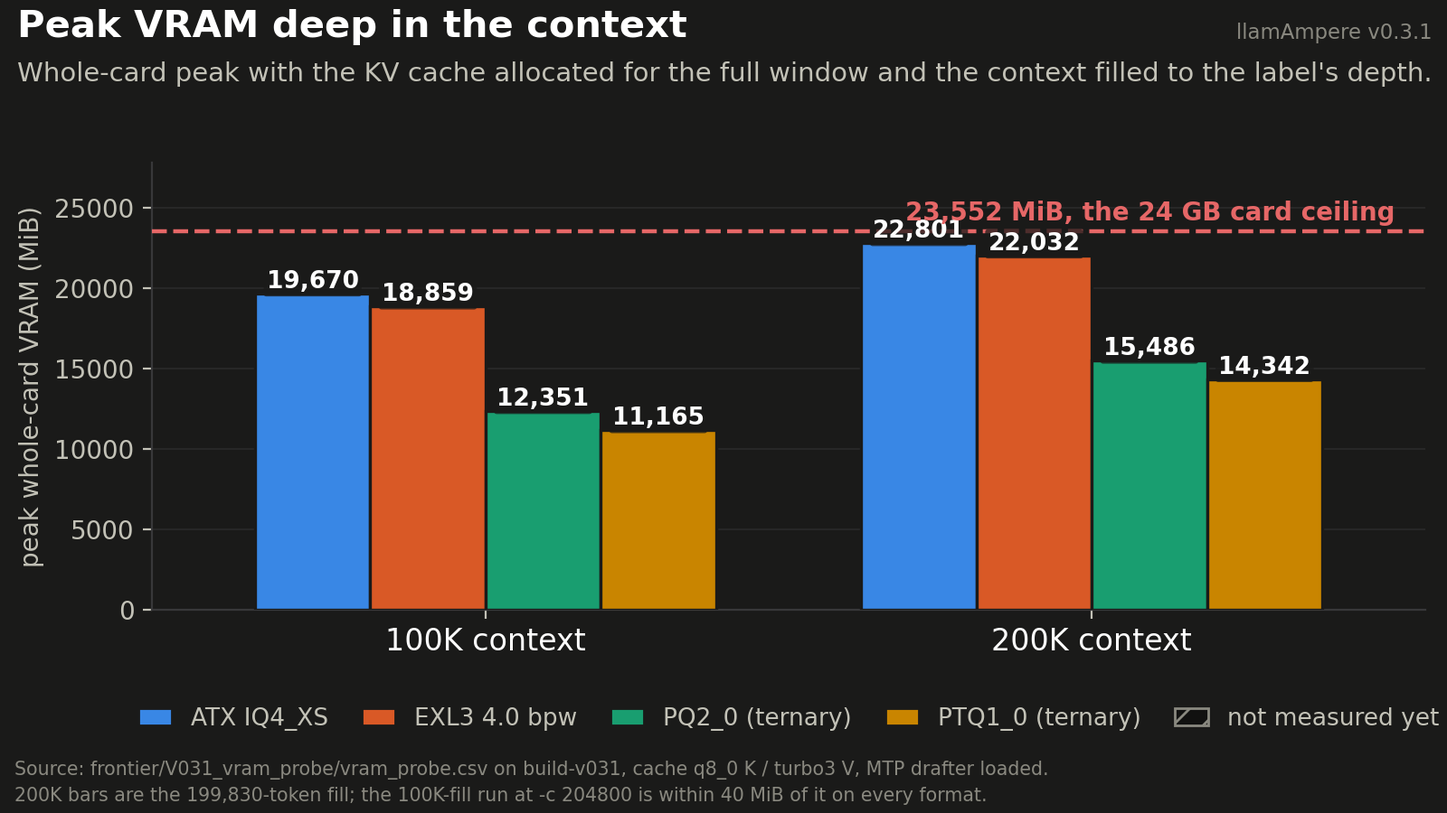
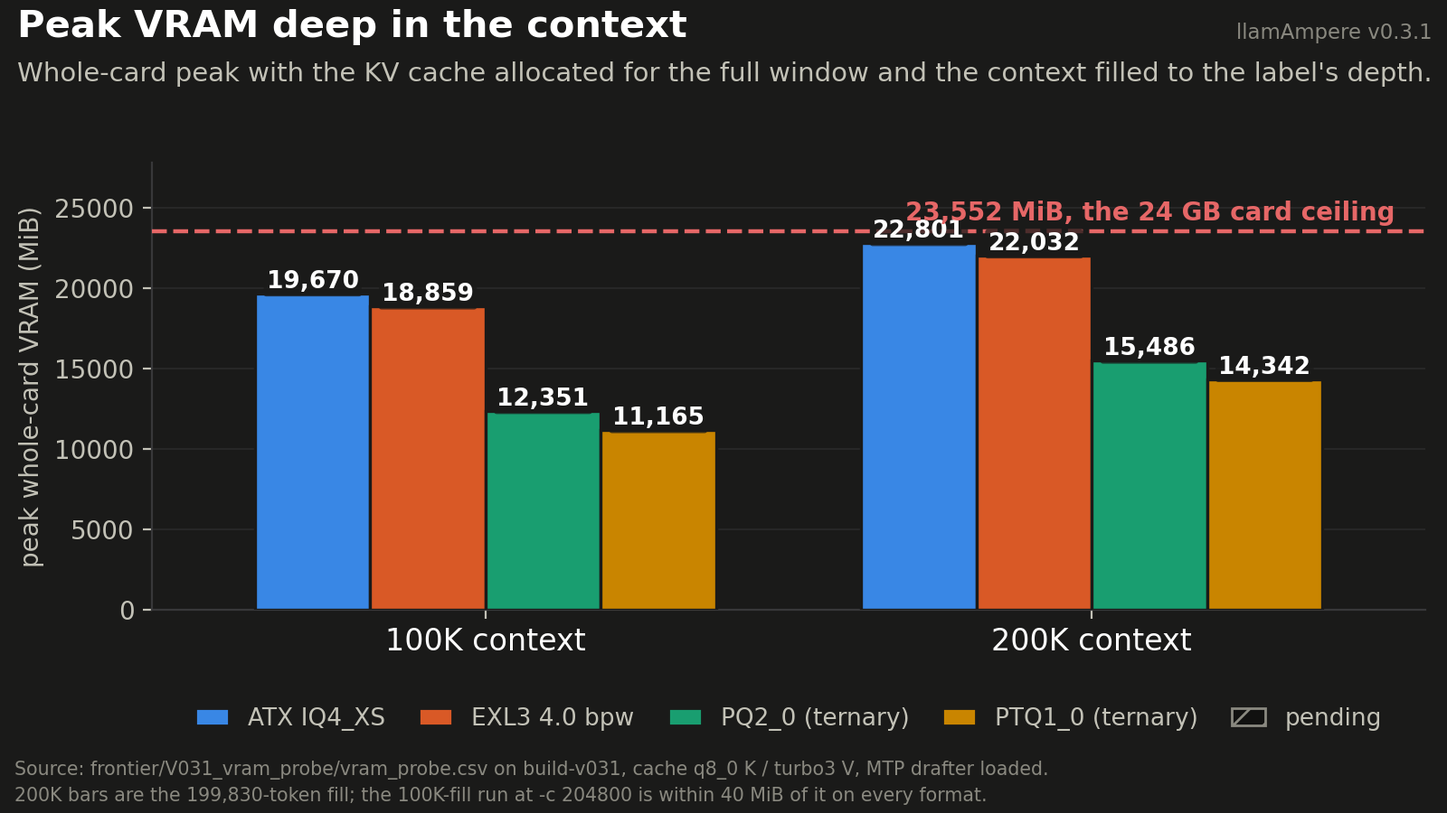
docs: EXL3 3.0 and 3.5 bpw decode cells on the release build, and the PTQ1_0 drafted cells pending a kernel re-measurement
Three EXL3 widths are now measured end to end on build-v031 against the same
20,469-token fixture, three seeds per cell, temperature 1.0 with a 20,480-token
cap and a 5,000-generated-token floor: 3.0 bpw at 38.8 tok/s single-token and
80.7 with MTP depth 4, 3.5 bpw at 39.9 and 81.8, 4.0 bpw at 40.6 and 81.9, with
peak whole-card VRAM of 13,160/14,403, 14,634/15,756 and 16,030/17,154 MiB. The
narrower widths hold the drafted speed within the seed spread out of files 1.42
and 2.83 GiB smaller. 3.0 bpw is also measured at 64K (36.1 and 74.9 tok/s, two
seeds). The release notes, HIGHLIGHTS, docs/exl3.md, the README line and
highlights_data.json carry the new cells with their per-seed sources, and the
file-size/bits-per-weight TBD is resolved with a six-row table.

The PTQ1_0 cells that were measured with the MTP drafter are withheld: the
verify-width kernel behind them was rewritten and is in final gating, so those
cells are drawn pending in fig01 and fig06 and will be filled from a run on the
shipping kernel, together with a base-runtime comparison at 64K. The PTQ1_0
single-token numbers and VRAM figures are unchanged.

Changed region(s): [[0.0938, 0.8711, 1.0, 0.9022]]

diff --git a/docs/llamampere-v0.3.1/make_figures.py b/docs/llamampere-v0.3.1/make_figures.py
@@ -154,7 +154,7 @@ def legend_formats(ax, keys, ncols=None, y=-0.16, pending=True):
     handles = [Patch(facecolor=colour(k), edgecolor=SURFACE, label=FORMATS[k]["label"])
                for k in keys]
     if pending:
-        handles.append(Patch(facecolor=PANEL, edgecolor=INK3, hatch="//", label="not measured yet"))
+        handles.append(Patch(facecolor=PANEL, edgecolor=INK3, hatch="//", label="pending"))
     ax.legend(handles=handles, ncols=ncols or len(handles), loc="upper center",
               bbox_to_anchor=(0.5, y), frameon=False, labelcolor=INK2, handlelength=1.4,
               columnspacing=1.4)

diff --git a/docs/llamampere-v0.3.1/RELEASE_NOTES.md b/docs/llamampere-v0.3.1/RELEASE_NOTES.md
@@ -33,6 +33,26 @@ development build. Peak whole-card VRAM 17,154 MiB at 20K with the drafter and 1
 divergence to the reference implementation on the same weights is 0.000221 ± 0.000057 with the same top
 token on 99.6 % of positions, and the converter reconstructs its checked tensors with `max|Δ| = 0`.
 
+Three bit widths are now measured end to end on the release build (`build-v031`), on the same
+20,469-token fixture, seeds 7300/7301/7302, temperature 1.0, `n_predict` 20,480, EOS honoured, every run
+past the 5,000-generated-token floor:
+
+| EXL3 width | file | T=1, 20K prompt | MTP-4, 20K prompt | peak VRAM, 20K (T=1 / MTP-4) |
+|---|---:|---:|---:|---:|
+| 3.0 bpw | 10.91 GiB (11,714,920,352 B) | 38.8 tok/s (3 seeds, sd 0.39) | 80.7 tok/s (3 seeds, sd 2.17) | 13,160 / 14,403 MiB |
+| 3.5 bpw | 12.32 GiB (13,233,389,472 B) | 39.9 tok/s (3 seeds, sd 0.19) | 81.8 tok/s (3 seeds, sd 1.11) | 14,634 / 15,756 MiB |
+| 4.0 bpw | 13.74 GiB (14,755,790,624 B) | 40.6 tok/s (3 seeds, sd 0.15) | 81.9 tok/s (3 seeds, sd 0.82) | 16,030 / 17,154 MiB |
+
+The narrower widths decode at the same drafted speed as 4.0 bpw within the seed spread, from a file 1.42
+and 2.83 GiB smaller and with 1,398 and 2,751 MiB less peak VRAM at that depth. Draft acceptance is the
+same across the three widths (0.612 to 0.634 over the nine drafted runs). Four of the six 3.0 bpw runs
+at 20K ran to the 20,480-token cap instead of stopping on EOS; every other run in the table stopped on
+EOS. Deeper in the
+context, 3.0 bpw holds 36.1 tok/s single-token (2 seeds, sd 0.07) and 74.9 tok/s with MTP depth 4
+(2 seeds, sd 1.30) on a 65,531-token prompt, peak 14,454 and 15,688 MiB. Per-seed files:
+`EX5_depth_bench/results_v031_exl3_3.0/` and `results_v031_exl3_3.5/` (`A1.*` single-token, `A.*`
+MTP-4), alongside `results_v031/` for 4.0 bpw.
+
 Full documentation, including conversion, verification and the known limits: [docs/exl3.md](../exl3.md).
 
 ### Ternary Bonsai 2: PTQ1_0 and PQ2_0 SM86 decode kernels
@@ -40,10 +60,11 @@ Full documentation, including conversion, verification and the known limits: [do
 CPU and CUDA inference for Prism ML's Ternary Bonsai 2 27B, plus decode kernels for both containers.
 `PQ2_0` (2-bit codes) and `PTQ1_0` (5 trits per byte) hold bit-identical ternary values and scales; they
 differ only in packing. At 16K context on a 3090 Ti, `PQ2_0` decodes at 69.7 tok/s single-token and 104.8
-tok/s with the MTP drafter, `PTQ1_0` at 62.8 and 59.1 tok/s, for about 1.1 GB less peak VRAM (release
-build, one 16K rag prompt, two seeds, full runs of at least 5,000 generated tokens at temperature 1.0;
-the PTQ1_0 drafter does not pay at temperature 1.0 at any depth from 1 to 3, so run it single-token). Both are
-bit-exact against the Prism reference: the 16-token greedy hash is unchanged.
+tok/s with the MTP drafter, and `PTQ1_0` at 62.8 tok/s single-token for about 1.1 GB less peak VRAM
+(release build, one 16K rag prompt, two seeds, full runs of at least 5,000 generated tokens at
+temperature 1.0). A rewritten PTQ1_0 verify-width kernel is in final gating; the PTQ1_0 numbers with the
+MTP drafter, and a base-runtime comparison at 64K, will be added to these notes in a follow-up commit.
+Both are bit-exact against the Prism reference: the 16-token greedy hash is unchanged.
 
 Model, build, validation and credits: [docs/bonsai2.md](../bonsai2.md).
 
@@ -136,10 +157,11 @@ permute per four weights instead of a multiply chain. That moves the kernel off 
 back onto bandwidth, which is where a decode kernel wants to be. It matters most under speculative
 decoding, because a width-4 verify re-reads the same weights and the byte-permute path carries almost no
 re-unpack cost: on the same 16K fixture in full temperature-1.0 runs on the release build, PQ2_0 goes
-from 69.7 tok/s single-token to 104.8 tok/s with the MTP drafter, where PTQ1_0 goes 62.8 to 59.1 (the
-2K development checks read 64 to 59 after the dp4a rewrite and 55 to 60 before it): on PTQ1_0 a width-4
-verify pass still costs about 2.85 single-token steps, so the drafter loses slightly there. The two containers were checked tensor by tensor and are a lossless
-re-container of each other, so this is pure packing, not a quality trade.
+from 69.7 tok/s single-token to 104.8 tok/s with the MTP drafter, a 1.5x gain the drafter keeps because
+the verify pass costs the container almost nothing to re-unpack. The PTQ1_0 side of that comparison is
+being re-measured on the rewritten verify-width kernel now in final gating. The two containers were
+checked tensor by tensor and are a lossless re-container of each other, so this is pure packing, not a
+quality trade.
 
 **EXL3, the trellis GEMV (new).** The first working path reconstructed each whole weight matrix to f16
 and called cuBLAS, which is correct and slow: 20.1 tok/s. The shipped kernel decodes straight from the
@@ -163,9 +185,8 @@ every step.
   because verify widths 5 to 9 cost 2.2 to 3.1x on the current MMVQ, so this is gated on W58 landing.
   The v0.4 target for it is narrower than "beat MTP": an option for 8, 10 and 12 GB cards to skip the
   MTP head entirely when context is tight, where the head's weights and its draft KV do not fit.
-- **PTQ1_0 verify widths 2 to 4.** The dp4a rewrite made single-token PTQ1_0 decode faster than the
-  MTP path at 16K on this container; the width 2 to 4 kernels are the next PTQ1_0 target so the drafter
-  pays off there too.
+- **PTQ1_0 verify widths 2 to 4.** The rewritten cross-column kernel for these widths is in final
+  gating rather than deferred; its measured numbers land in a follow-up commit to these notes.
 - **A 6-bit TurboQuant K cache (TQ6) to pair with TQ3 V.** The idea is K at roughly 8-bit quality in
   6 bits for tight-VRAM configurations (tq6/tq3), to be explored and measured before anything ships.
 - **MTP depth 4 as a product default.** Depth 4 with `p-min 0` won the ship corpus and is the
@@ -212,8 +233,8 @@ Numbers that are not in this document because no measurement supports them yet:
   filled to the stated depth, q8_0 K / turbo3 V, MTP drafter loaded). 100K: ATX IQ4_XS 19,670 MiB,
   EXL3 4.0 18,859, PQ2_0 12,351, PTQ1_0 11,165. 200K: ATX 22,801, EXL3 22,032, PQ2_0 15,486,
   PTQ1_0 14,342. All four sit under the 23,552 MiB budget at 200K; see HIGHLIGHTS.md section 4.
-- A v0.3.1 ladder against stock llama.cpp and TurboQuant, in the form v0.3 reports: **TBD**. No
-  ship-corpus run has been made on this branch.
+- A v0.3.1 ladder against stock llama.cpp and TurboQuant, in the form v0.3 reports: **planned**. The
+  ship-corpus run on this branch is queued; the ladder goes into these notes when it lands.
 - PQ2_0 and PTQ1_0 on the production ship corpus (coding, agentic, rag, 3 seeds, 20K generated,
   temperature 1.0): the 16K rag cells are full runs on the release build (quoted above, two seeds each).
   The coding and agentic 16K fixtures end under 5,000 generated tokens on every format, ternary and ATX
@@ -222,14 +243,29 @@ Numbers that are not in this document because no measurement supports them yet:
   ones, so those cells use whatever reached the floor: PQ2_0 64K no drafter 59.8 tok/s (two seeds), PQ2_0 64K MTP-3 88.4 (one seed of
   five), PQ2_0 100K on the fixture set's second prompt 54.5 no drafter and 82.9 MTP-3 (two seeds
   each, acceptance 0.53 to 0.55, peak 13,015 MiB). PTQ1_0 has no full run at 64K without the drafter
-  on either prompt (ten runs, 2,135 to 4,427 tokens, 55.1 to 56.3 tok/s); with the drafter one seed of
-  ten reached the floor (56.6 tok/s, second prompt); at 100K on the second prompt it decodes at 51.2
-  tok/s without the drafter (two seeds, sd 0.02) and 52.7 with MTP-3 (two seeds, sd 0.41, acceptance
-  0.54), so at 100K the drafter is a wash on PTQ1_0 rather than a loss.
+  on either prompt (ten runs, 2,135 to 4,427 tokens, short of the floor); at 100K on the second prompt
+  it decodes at 51.2 tok/s without the drafter (two seeds, sd 0.02). The PTQ1_0 cells with the drafter
+  are being re-measured on the rewritten verify-width kernel and land in a follow-up commit, together
+  with a base-runtime comparison at 64K.
 - PQ2_0 prefill on the v0.3.1 build: **TBD**. The 1,418 tok/s figure on record is a 2K check on the
   earlier ternary build.
-- EXL3 at bit widths other than 4.0 (and the 6-bit head): **TBD**. Types 2, 3, 5, 7 and 8 are
-  implemented and parity-checked, but no end-to-end model has been converted or timed at those widths.
-- File size and bits per weight of every shipped quant in one table: **TBD** beyond ATX-4-XS
-  (14.5 GiB, 4.56 bpw), EXL3 4.0 bpw (13.7 GiB), PTQ1_0 (5,946,648,928 B, 1.75 bpw) and PQ2_0
-  (7,206,168,928 B).
+- EXL3 at bit widths other than 4.0: **measured** for 3.0 and 3.5 bpw, in the table above. The 3.0 bpw
+  file is 400 EXL3_3 linear tensors plus 8 EXL3_4; the 3.5 bpw file is 270 EXL3_4, 137 EXL3_3 and one
+  EXL3_5; both carry the EXL3_6 `output.weight` head and the same fused layout as the 4.0 bpw file.
+  A model at 2, 5, 7 or 8 bits throughout has still not been converted or timed, so those types remain
+  parity-checked only.
+- File size and bits per weight of every shipped quant, from `ls -l` on the exact GGUFs that were
+  measured (GiB = bytes / 2^30; the ternary rows are the files with the MTP head, with the official
+  Prism checkpoint without the head in brackets):
+
+  | format | bits per weight | bytes | GiB |
+  |---|---:|---:|---:|
+  | ATX IQ4_XS (`Qwen3.8-27B-ATX-4-XS.gguf`) | 4.56 | 15,588,551,712 | 14.52 |
+  | EXL3 4.0 bpw | 4.0 nominal | 14,755,790,624 | 13.74 |
+  | EXL3 3.5 bpw | 3.5 nominal | 13,233,389,472 | 12.32 |
+  | EXL3 3.0 bpw | 3.0 nominal | 11,714,920,352 | 10.91 |
+  | PQ2_0 (ternary, with MTP head) | 2.125 | 7,502,169,376 (7,206,168,928) | 6.99 (6.71) |
+  | PTQ1_0 (ternary, with MTP head) | 1.75 | 6,242,649,376 (5,946,648,928) | 5.81 (5.54) |
+
+  The EXL3 bits-per-weight figures are the conversion's nominal width, not a measured bytes-per-weight
+  ratio; the file column is the measured size.

diff --git a/docs/llamampere-v0.3.1/HIGHLIGHTS.md b/docs/llamampere-v0.3.1/HIGHLIGHTS.md
@@ -16,14 +16,14 @@ than filled with a guess.
 ![Decode tok/s by format at a working context depth](img/fig01_decode_16k_20k.png)
 
 At a working context depth the same build serves four very different formats at usable speed. The MTP
-drafter is worth 1.5x to 2x on PQ2_0 and EXL3, but not on PTQ1_0: at temperature 1.0 its depth-3 drafted
-run is slower than its single-token run (59.1 against 62.8 tok/s), because at 0.55 acceptance the
-1.75-bit verify step costs more than the accepted tokens buy back. Leave the drafter off for PTQ1_0 at
-temperature 1.0, or use PQ2_0 when the 1.1 GB fits. PQ2_0 reaches 104.8 tok/s from a 6.99 GiB file,
-level with ATX IQ4_XS at 99.1 tok/s within the seed spread and from a file less than half the size, and
-EXL3 4.0 bpw reaches 81.9 tok/s with three seeds behind it. The ATX and both ternary cells
-are the same 16K rag prompt, floor and seeds on the release build; both EXL3 cells were measured at 20K
-on their own fixture, three seeds each, so read each bar with the tag printed underneath it.
+drafter is worth 1.5x to 2x on PQ2_0 and EXL3: PQ2_0 reaches 104.8 tok/s from a 6.99 GiB file, level
+with ATX IQ4_XS at 99.1 tok/s within the seed spread and from a file less than half the size, and EXL3
+4.0 bpw reaches 81.9 tok/s with three seeds behind it. PTQ1_0 decodes at 62.8 tok/s single-token at this
+depth out of the smallest file in the release; its drafted bar is drawn pending because the PTQ1_0
+verify-width kernel was rewritten and is in final gating, and that cell will be filled from a run on the
+shipping kernel. The ATX and both ternary cells are the same 16K rag prompt, floor and seeds on the
+release build; both EXL3 cells were measured at 20K on their own fixture, three seeds each, so read each
+bar with the tag printed underneath it.
 
 Conditions: one RTX 3090 Ti, temperature 1.0, single stream. ATX 99.1 tok/s is the same 16,000-token rag
 prompt, floor and seeds as the ternary cells, MTP depth 3 with `p-min 0`, on the release build, sd 4.62
@@ -34,7 +34,8 @@ is a full run on the release build without the drafter: a 20,469-token prompt, s
 4 and `p-min 0`, sd 0.82, acceptance 0.61 to 0.63, so the drafter is worth 2.0x on EXL3 (the earlier
 build-exl3 run of the same cells gave 81.27). PQ2_0 is a 16,000-token rag prompt, two seeds, full runs with a 5,000-generated-token
 floor, on the release build, sd 0.37 at T=1 and 3.34 with MTP depth 3 (acceptance 0.56 to 0.59). PTQ1_0 at T=1 is the same rag prompt and floor on the
-release build, two seeds, sd 0.27; with MTP depth 3 it is 59.1 tok/s on the same cells, sd 0.96.
+release build, two seeds, sd 0.27; its drafted cell is pending re-measurement on the rewritten
+verify-width kernel.
 
 Sources: `EX8_bonsai_mtp/results_atx_ab/v031/CB.rag_analysis.c16000.s{7300,7301}.json` and
 `CM.rag_analysis.c16000.s{7300,7301}.n3.json` (ATX); `EX5_depth_bench/results_v031/A1.20k.s{7300,7301,7302}.json`
@@ -42,8 +43,7 @@ and `A.20k.s{7300,7301,7302}.json` (EXL3 single-token and MTP-4, release build; 
 `docs/exl3.md` line 244 with JSONs in `EX5_depth_bench/results/`);
 `EX8_bonsai_mtp/results/CB.rag_analysis.c16000.s{7300,7301}.json` and
 `EX8_bonsai_mtp/results_pq2/CM.rag_analysis.c16000.s{7300,7301}.n3.json` (PQ2_0);
-`EX8_bonsai_mtp/results_v031_ptq1/CB.rag_analysis.c16000.s{7300,7301}.json` and
-`CM.rag_analysis.c16000.s{7300,7301}.n3.json` (PTQ1_0).
+`EX8_bonsai_mtp/results_v031_ptq1/CB.rag_analysis.c16000.s{7300,7301}.json` (PTQ1_0 single-token).
 
 ## 2. The same four formats, deeper in the context
 
@@ -73,22 +73,55 @@ Sources: `docs/llamampere-v0.3/ARTICLE.md` line 528 and `QWEN_AMPERE.md` lines 2
 
 The four formats span 1.75 to 4.56 bits per weight, which is 5.81 to 14.52 GiB of file for the same
 class of 27B model. EXL3 at 4.0 bpw is 0.78 GiB smaller than ATX IQ4_XS at 4.56 bpw and buys quality per
-byte rather than speed. The ternary containers are less than half the size of either: PQ2_0 trades about
-1.1 GB of VRAM against PTQ1_0 for a byte-permute unpack instead of a multiply chain, and the two hold
+byte rather than speed, and its narrower conversions at 3.5 and 3.0 bpw take that down to 12.32 and
+10.91 GiB while decoding at the same drafted speed (table below). The ternary containers are less than
+half the size of either: PQ2_0 trades about 1.1 GB of VRAM against PTQ1_0 for a byte-permute unpack
+instead of a multiply chain, and the two hold
 bit-identical ternary values and scales, so choosing between them is a packing decision and not a
 quality one.
 
 Conditions: `ls -l` byte counts of the exact GGUFs that were measured, divided by 2^30. Every file here
 carries the model's native single-layer MTP head, which is why the two Bonsai files are larger than the
 official Prism checkpoints (PTQ1_0 5,946,648,928 bytes and PQ2_0 7,206,168,928 bytes without the head).
-The EXL3 file is the `--fuse` conversion, the one the measurements used. The ternary files are Ternary
-Bonsai 2 27B; the other two are Qwen3.8-27B.
+The EXL3 files are `--fuse` conversions, the ones the measurements used. The ternary files are Ternary
+Bonsai 2 27B; the other four are Qwen3.8-27B.
 
 Sources: `QWEN_AMPERE.md` line 24 (4.56 bpw); `docs/exl3.md` line 92 (EXL3_4 bulk, EXL3_6 output head);
 `docs/bonsai2.md` (official checkpoint sizes); `ls -l` on
 `models/atx4xs/Qwen3.8-27B-ATX-4-XS.gguf`, `models/exl3-4.0bpw-gguf/Qwen3.8-27B-EXL3-4.0bpw.gguf`,
 `models/bonsai2/Ternary-Bonsai-2-27B-PQ2_0-MTP.gguf` and
-`models/bonsai2/Ternary-Bonsai-2-27B-PTQ1_0-MTP.gguf`.
+`models/bonsai2/Ternary-Bonsai-2-27B-PTQ1_0-MTP.gguf`;
+`ls -l models/exl3-3.0bpw-gguf/Qwen3.8-27B-EXL3-3.0bpw.gguf` and
+`models/exl3-3.5bpw-gguf/Qwen3.8-27B-EXL3-3.5bpw.gguf`.
+
+### EXL3 at three bit widths
+
+The narrower EXL3 conversions cost file size and VRAM, not drafted speed:
+
+| EXL3 | file | T=1, 20K prompt | MTP-4, 20K prompt | peak VRAM, 20K (T=1 / MTP-4) |
+|---|---:|---:|---:|---:|
+| 3.0 bpw | 10.91 GiB | 38.8 tok/s | 80.7 tok/s | 13,160 / 14,403 MiB |
+| 3.5 bpw | 12.32 GiB | 39.9 tok/s | 81.8 tok/s | 14,634 / 15,756 MiB |
+| 4.0 bpw | 13.74 GiB | 40.6 tok/s | 81.9 tok/s | 16,030 / 17,154 MiB |
+
+At 3.5 bpw the drafted cell is level with 4.0 bpw and at 3.0 bpw it is within the seed spread, from a
+file 1.42 and 2.83 GiB smaller and with 1,398 and 2,751 MiB less peak VRAM at that depth. 3.0 bpw is
+also the only width measured deeper so far: 36.1 tok/s single-token and 74.9 tok/s with MTP depth 4 on a
+65,531-token prompt (two seeds each, sd 0.07 and 1.30, peak 14,454 and 15,688 MiB).
+
+Conditions: one RTX 3090 Ti, `build-v031`, the same 20,469-token depth fixture, ctx 45,056, temperature
+1.0, reasoning_effort medium, `n_predict` 20,480 with a 5,000-generated-token floor, EOS honoured, seeds
+7300/7301/7302 per cell, q8_0 K / turbo3 V, MTP depth 4 with `p-min 0` and the 65,536-entry vocabulary
+map on the drafted arm, acceptance 0.612 to 0.634 across the nine drafted runs. Standard deviations at
+20K: 0.39 and 2.17 (3.0 bpw), 0.19 and 1.11 (3.5 bpw), 0.15 and 0.82 (4.0 bpw). Four of the six 3.0 bpw
+runs at 20K reached the 20,480-token cap; every other run stopped on EOS. Peak VRAM is the largest
+whole-card sample of the three seeds.
+
+Sources: `EX5_depth_bench/results_v031_exl3_3.0/A1.20k.s{7300,7301,7302}.json`,
+`A.20k.s{7300,7301,7302}.json`, `A1.64k.s{7300,7301}.json` and `A.64k.s{7300,7301}.json`;
+`EX5_depth_bench/results_v031_exl3_3.5/A1.20k.s{7300,7301,7302}.json` and
+`A.20k.s{7300,7301,7302}.json`; `EX5_depth_bench/results_v031/` for the 4.0 bpw row; fields
+`decode.tok_s`, `vram.peak_mib`, `draft.acceptance`, `generated_tokens`.
 
 ## 4. Peak VRAM deep in the context
 
@@ -207,11 +240,11 @@ permute per four weights instead of a multiply chain. That moves the kernel off 
 back onto bandwidth, which is where a decode kernel wants to be. It matters most under speculative
 decoding, because a width-4 verify re-reads the same weights and the byte-permute path carries almost no
 re-unpack cost: on the same 16K fixture in full temperature-1.0 runs on the release build, PQ2_0 goes
-from 69.7 tok/s single-token to 104.8 tok/s with the MTP drafter, where PTQ1_0 goes 62.8 to 59.1 (the 2K
-development checks read 64 to 59 after the dp4a rewrite and 55 to 60 before it), because on PTQ1_0 a
-width-4 verify pass still costs about 2.85 single-token steps, so the drafter loses slightly
-there. The two containers were checked tensor
-by tensor and are a lossless re-container of each other, so this is pure packing, not a quality trade.
+from 69.7 tok/s single-token to 104.8 tok/s with the MTP drafter, a 1.5x gain the drafter keeps because
+the verify pass costs this container almost nothing to re-unpack. The PTQ1_0 side of that comparison is
+being re-measured on the rewritten verify-width kernel now in final gating. The two containers were
+checked tensor by tensor and are a lossless re-container of each other, so this is pure packing, not a
+quality trade.
 
 **EXL3, the trellis GEMV (new).** The first working path reconstructed each whole weight matrix to f16
 and called cuBLAS, which is correct and slow: 20.1 tok/s. The shipped kernel decodes straight from the

diff --git a/docs/exl3.md b/docs/exl3.md
@@ -205,7 +205,8 @@ the width 5 to 9 MMVQ tuning that the n-gram speculative path is waiting on.
 ## Measured
 
 One RTX 3090 Ti at 350 W, whole-card VRAM budget 23,552 MiB, Qwen3.8-27B EXL3 4.0 bpw
-(`output.weight` at 6 bits), CUDA build at `-DCMAKE_CUDA_ARCHITECTURES=86`.
+(`output.weight` at 6 bits), CUDA build at `-DCMAKE_CUDA_ARCHITECTURES=86`. The 3.0 and 3.5 bpw
+conversions of the same model are in the bit-width table at the end of this section.
 
 **Correctness.** Converter verify: `max|Δ| = 0` on all five default tensors. Kernel parity against the
 numpy reference (tolerance 3e-3 relative RMS): PASS at T = 1, 2, 5, 7, 8, 9, 12, 16, worst 4.9e-4. This
@@ -252,6 +253,32 @@ Re-measured on the release build (`build-v031`, same fixture, seeds and cap): th
 peak 16,030 MiB) with no drafter, all six runs ending on EOS between 17,188 and 20,084 generated tokens.
 Per-seed files: `EX5_depth_bench/results_v031/A.20k.s*.json` and `A1.20k.s*.json`.
 
+**Bit widths 3.0, 3.5 and 4.0.** The same model converted at three widths and measured on the release
+build against the same fixture, seeds and cap: three seeds (7300, 7301, 7302) per cell, temperature 1.0,
+`n_predict` 20,480 with a 5,000-generated-token floor, EOS honoured, q8_0 K / turbo3 V, MTP depth 4 with
+`p-min 0` on the drafted arm.
+
+| width | file | T=1 | MTP-4 | peak VRAM (T=1 / MTP-4) | acceptance |
+|---|---:|---:|---:|---:|---:|
+| 3.0 bpw | 11,714,920,352 B (10.91 GiB) | 38.81 tok/s (sd 0.39) | 80.67 tok/s (sd 2.17) | 13,160 / 14,403 MiB | 0.618 to 0.634 |
+| 3.5 bpw | 13,233,389,472 B (12.32 GiB) | 39.86 tok/s (sd 0.19) | 81.83 tok/s (sd 1.11) | 14,634 / 15,756 MiB | 0.612 to 0.623 |
+| 4.0 bpw | 14,755,790,624 B (13.74 GiB) | 40.56 tok/s (sd 0.15) | 81.90 tok/s (sd 0.82) | 16,030 / 17,154 MiB | 0.612 to 0.627 |
+
+The drafted arm is the same speed at all three widths within the seed spread, so a narrower conversion
+buys file size and VRAM at this depth rather than costing throughput: 3.0 bpw runs the 20K fixture in
+2,751 MiB less peak whole-card VRAM than 4.0 bpw, out of a file 2.83 GiB smaller. Four of the six
+3.0 bpw runs reached the 20,480-token cap; every other run in the table stopped on EOS.
+
+Deeper in the context, 3.0 bpw decodes a 65,531-token prompt at 36.13 tok/s single-token (2 seeds,
+sd 0.07, peak 14,454 MiB) and 74.89 tok/s at MTP depth 4 (2 seeds, sd 1.30, peak 15,688 MiB, acceptance
+0.624 and 0.642). 3.5 and 4.0 bpw have not been run at that depth.
+
+Per-seed files: `EX5_depth_bench/results_v031_exl3_3.0/` and `EX5_depth_bench/results_v031_exl3_3.5/`
+(`A1.*` no drafter, `A.*` MTP depth 4), with `EX5_depth_bench/results_v031/` for the 4.0 bpw row. Tensor
+mix, from a `GGUFReader` pass over each file: the 3.0 bpw file is 400 EXL3_3 linear tensors plus 8
+EXL3_4, the 3.5 bpw file is 270 EXL3_4, 137 EXL3_3 and one EXL3_5, and both carry the EXL3_6
+`output.weight` and the same fused layout as the 4.0 bpw file.
+
 ## How it compares to our other formats
 
 On the same card and the same binary, the ATX IQ4_XS quant is still the fast choice for this model. In
@@ -268,5 +295,6 @@ single-token and 60 and 100 tok/s with an MTP drafter. Take those as an order of
 ladder against the EXL3 figures above.
 
 Pick EXL3 when you have an exllamav3 checkpoint you want to serve with this stack, or when you want
-4.0 bpw weights at 13.7 GiB. Pick ATX for maximum tokens per second on this card. Pick a ternary
+4.0 bpw weights at 13.7 GiB, 3.5 bpw at 12.3 GiB or 3.0 bpw at 10.9 GiB, which decode at the same speed
+with the drafter. Pick ATX for maximum tokens per second on this card. Pick a ternary
 container when the card has to hold something else as well.

diff --git a/README.md b/README.md
@@ -1,4 +1,4 @@
-> **llamAmpere** (v0.3.1): this fork runs Qwen3.8-27B at up to 245K context on one RTX 3090 / 3090 Ti with the model's own MTP head: 99 tok/s on clean agentic and coding fixtures at temperature 1 (1.46x stock llama.cpp, 1.28x v0.2), 93 tok/s at 100K KV depth, and 1.10x tuned vLLM single-stream at 32K. v0.3.1 adds three more weight formats on the same stack: **EXL3** (Turboderp's exllamav3 trellis format) as GGUF-native types with an SM86 decode kernel, 82 tok/s at a 20K prompt and 74 at 50K with the MTP head on Qwen3.8-27B at 4.0 bpw ([docs/exl3.md](docs/exl3.md)); **Ternary Bonsai 2 27B** from Prism ML at 1.75 and 2.125 bits per weight, 105 tok/s with the MTP drafter at 16K on the 2.125-bit container ([docs/bonsai2.md](docs/bonsai2.md)); and an opt-in shared-memory codebook for IQ3 decode, all on a full upstream catch-up (llama.cpp master `b49650adb` and TurboQuant `407f3237b`, 772 commits ahead of the v0.3 base). Release notes: [docs/llamampere-v0.3.1/RELEASE_NOTES.md](docs/llamampere-v0.3.1/RELEASE_NOTES.md). Start with [QWEN_AMPERE.md](QWEN_AMPERE.md) and the write-up in [docs/llamampere-v0.3/ARTICLE.md](docs/llamampere-v0.3/ARTICLE.md) (v0.2: [docs/llamampere-v0.2/ARTICLE.md](docs/llamampere-v0.2/ARTICLE.md)). Successor of [llama-cpp-qwen-ampere](https://github.com/JakeATX/llama-cpp-qwen-ampere) (v0.1). It also loads **Agnes 3.0 Flash**, including its MTP head, which upstream llama.cpp does not; see [docs/agnes-3.0-flash.md](docs/agnes-3.0-flash.md). The rest of this README is upstream llama.cpp's.
+> **llamAmpere** (v0.3.1): this fork runs Qwen3.8-27B at up to 245K context on one RTX 3090 / 3090 Ti with the model's own MTP head: 99 tok/s on clean agentic and coding fixtures at temperature 1 (1.46x stock llama.cpp, 1.28x v0.2), 93 tok/s at 100K KV depth, and 1.10x tuned vLLM single-stream at 32K. v0.3.1 adds three more weight formats on the same stack: **EXL3** (Turboderp's exllamav3 trellis format) as GGUF-native types with an SM86 decode kernel, 82 tok/s at a 20K prompt and 74 at 50K with the MTP head on Qwen3.8-27B at 4.0 bpw, and the same 81-82 tok/s at 3.5 bpw and 80.7 at 3.0 bpw from files of 12.3 and 10.9 GiB ([docs/exl3.md](docs/exl3.md)); **Ternary Bonsai 2 27B** from Prism ML at 1.75 and 2.125 bits per weight, 105 tok/s with the MTP drafter at 16K on the 2.125-bit container ([docs/bonsai2.md](docs/bonsai2.md)); and an opt-in shared-memory codebook for IQ3 decode, all on a full upstream catch-up (llama.cpp master `b49650adb` and TurboQuant `407f3237b`, 772 commits ahead of the v0.3 base). Release notes: [docs/llamampere-v0.3.1/RELEASE_NOTES.md](docs/llamampere-v0.3.1/RELEASE_NOTES.md). Start with [QWEN_AMPERE.md](QWEN_AMPERE.md) and the write-up in [docs/llamampere-v0.3/ARTICLE.md](docs/llamampere-v0.3/ARTICLE.md) (v0.2: [docs/llamampere-v0.2/ARTICLE.md](docs/llamampere-v0.2/ARTICLE.md)). Successor of [llama-cpp-qwen-ampere](https://github.com/JakeATX/llama-cpp-qwen-ampere) (v0.1). It also loads **Agnes 3.0 Flash**, including its MTP head, which upstream llama.cpp does not; see [docs/agnes-3.0-flash.md](docs/agnes-3.0-flash.md). The rest of this README is upstream llama.cpp's.
 
 **Fastest configuration (v0.3, one RTX 3090 / 3090 Ti).** Build from `main` as in [QWEN_AMPERE.md](QWEN_AMPERE.md#build-and-run), with the GGUF from [jakeatx/Qwen3.8-27B-ATX-IQ4_XS-M-GGUF](https://huggingface.co/jakeatx/Qwen3.8-27B-ATX-IQ4_XS-M-GGUF), then:
 

diff --git a/docs/bonsai2.md b/docs/bonsai2.md
@@ -54,7 +54,7 @@ Check executed counts, not only the final backend verdict. Preserve the raw logs
 
 ## SM86 decode kernels (v0.3.1)
 
-Both containers hold the same ternary values and block scales (verified tensor by tensor); they differ only in packing. `PQ2_0` stores 2-bit codes and unpacks with one byte permute per 4 weights. `PTQ1_0` stores 5 trits per byte and needs a multiply-by-3 digit extraction, so its GEMV is ALU-bound rather than bandwidth-bound on a 3090 Ti: at 16K context `PQ2_0` decodes at 69.7 tok/s single-token and 104.8 tok/s with the MTP drafter, `PTQ1_0` at 62.8 tok/s single-token and 59.1 with the drafter, for about 1.1 GB more peak VRAM (release build, one 16K rag prompt, two seeds, full runs of at least 5,000 generated tokens at temperature 1.0). On `PTQ1_0` no drafter depth pays at temperature 1.0: depths 1, 2 and 3 decode at 60.5, 59.0 and 59.1 tok/s, because a width-4 verify pass costs about 2.85 single-token steps at 0.55 acceptance. Pick `PQ2_0` unless the card cannot hold it, and run `PTQ1_0` without the drafter. Deeper in the context the gap holds: `PQ2_0` at 64K decodes at 59.8 tok/s without the drafter and 88.4 with it (the one seed of five whose answer reached 5,000 tokens), and at 100K on the fixture set's second rag prompt 54.5 and 82.9 tok/s (two seeds each). `PTQ1_0` has no 64K run without the drafter that reached the floor on either prompt (ten runs, 2,135 to 4,427 tokens, 55.1 to 56.3 tok/s); with the drafter the one full run of ten gave 56.6 tok/s, and at 100K on the second prompt it decodes at 51.2 tok/s without the drafter and 52.7 with it (two seeds each), so the drafter is a wash there rather than a loss.
+Both containers hold the same ternary values and block scales (verified tensor by tensor); they differ only in packing. `PQ2_0` stores 2-bit codes and unpacks with one byte permute per 4 weights. `PTQ1_0` stores 5 trits per byte and needs a multiply-by-3 digit extraction, so its GEMV is ALU-bound rather than bandwidth-bound on a 3090 Ti: at 16K context `PQ2_0` decodes at 69.7 tok/s single-token and 104.8 tok/s with the MTP drafter, `PTQ1_0` at 62.8 tok/s single-token, for about 1.1 GB more peak VRAM (release build, one 16K rag prompt, two seeds, full runs of at least 5,000 generated tokens at temperature 1.0). A rewritten `PTQ1_0` verify-width kernel is in final gating; the `PTQ1_0` numbers with the MTP drafter, and a base-runtime comparison at 64K, will be added here in a follow-up commit. Pick `PQ2_0` for throughput and `PTQ1_0` when the card cannot hold it. Deeper in the context the gap holds: `PQ2_0` at 64K decodes at 59.8 tok/s without the drafter and 88.4 with it (the one seed of five whose answer reached 5,000 tokens), and at 100K on the fixture set's second rag prompt 54.5 and 82.9 tok/s (two seeds each). `PTQ1_0` has no 64K run without the drafter that reached the floor on either prompt (ten runs, 2,135 to 4,427 tokens), and at 100K on the second prompt it decodes at 51.2 tok/s without the drafter (two seeds, sd 0.02); its drafted cells are being re-measured on the rewritten verify-width kernel.
 
 The v0.3.1 `PTQ1_0` kernels do the following, all bit-exact against the Prism reference (greedy output hash unchanged):
 
